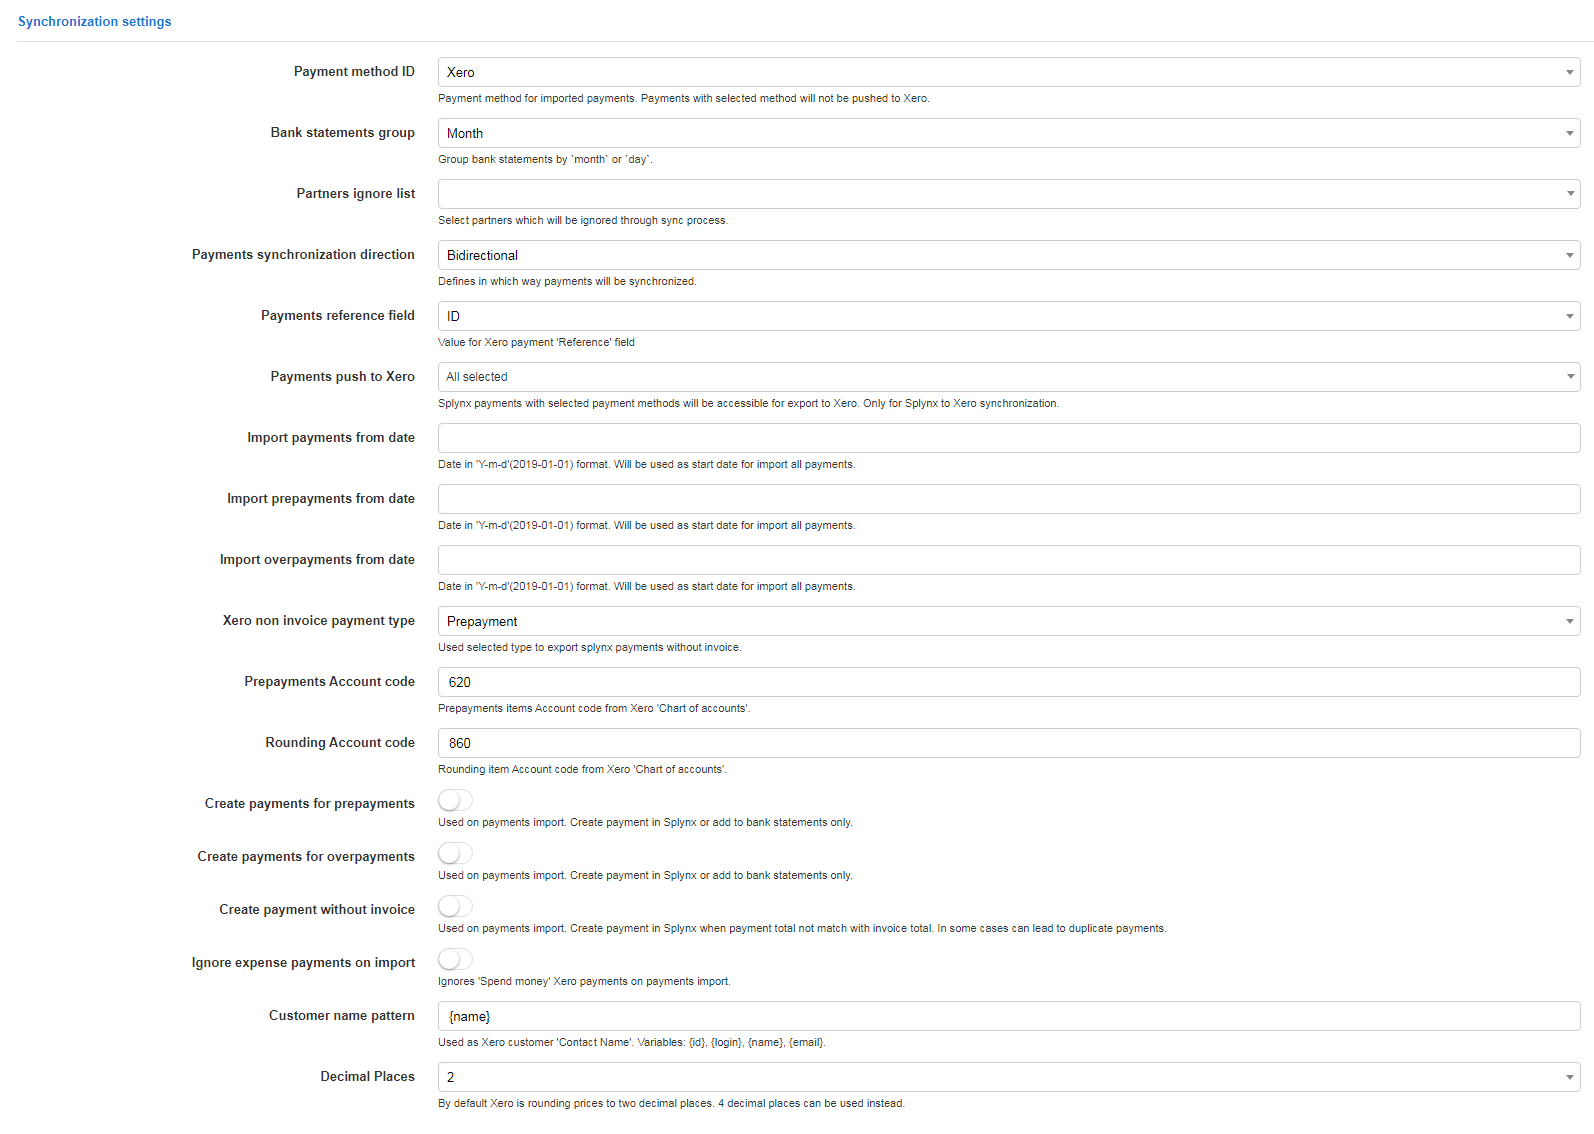
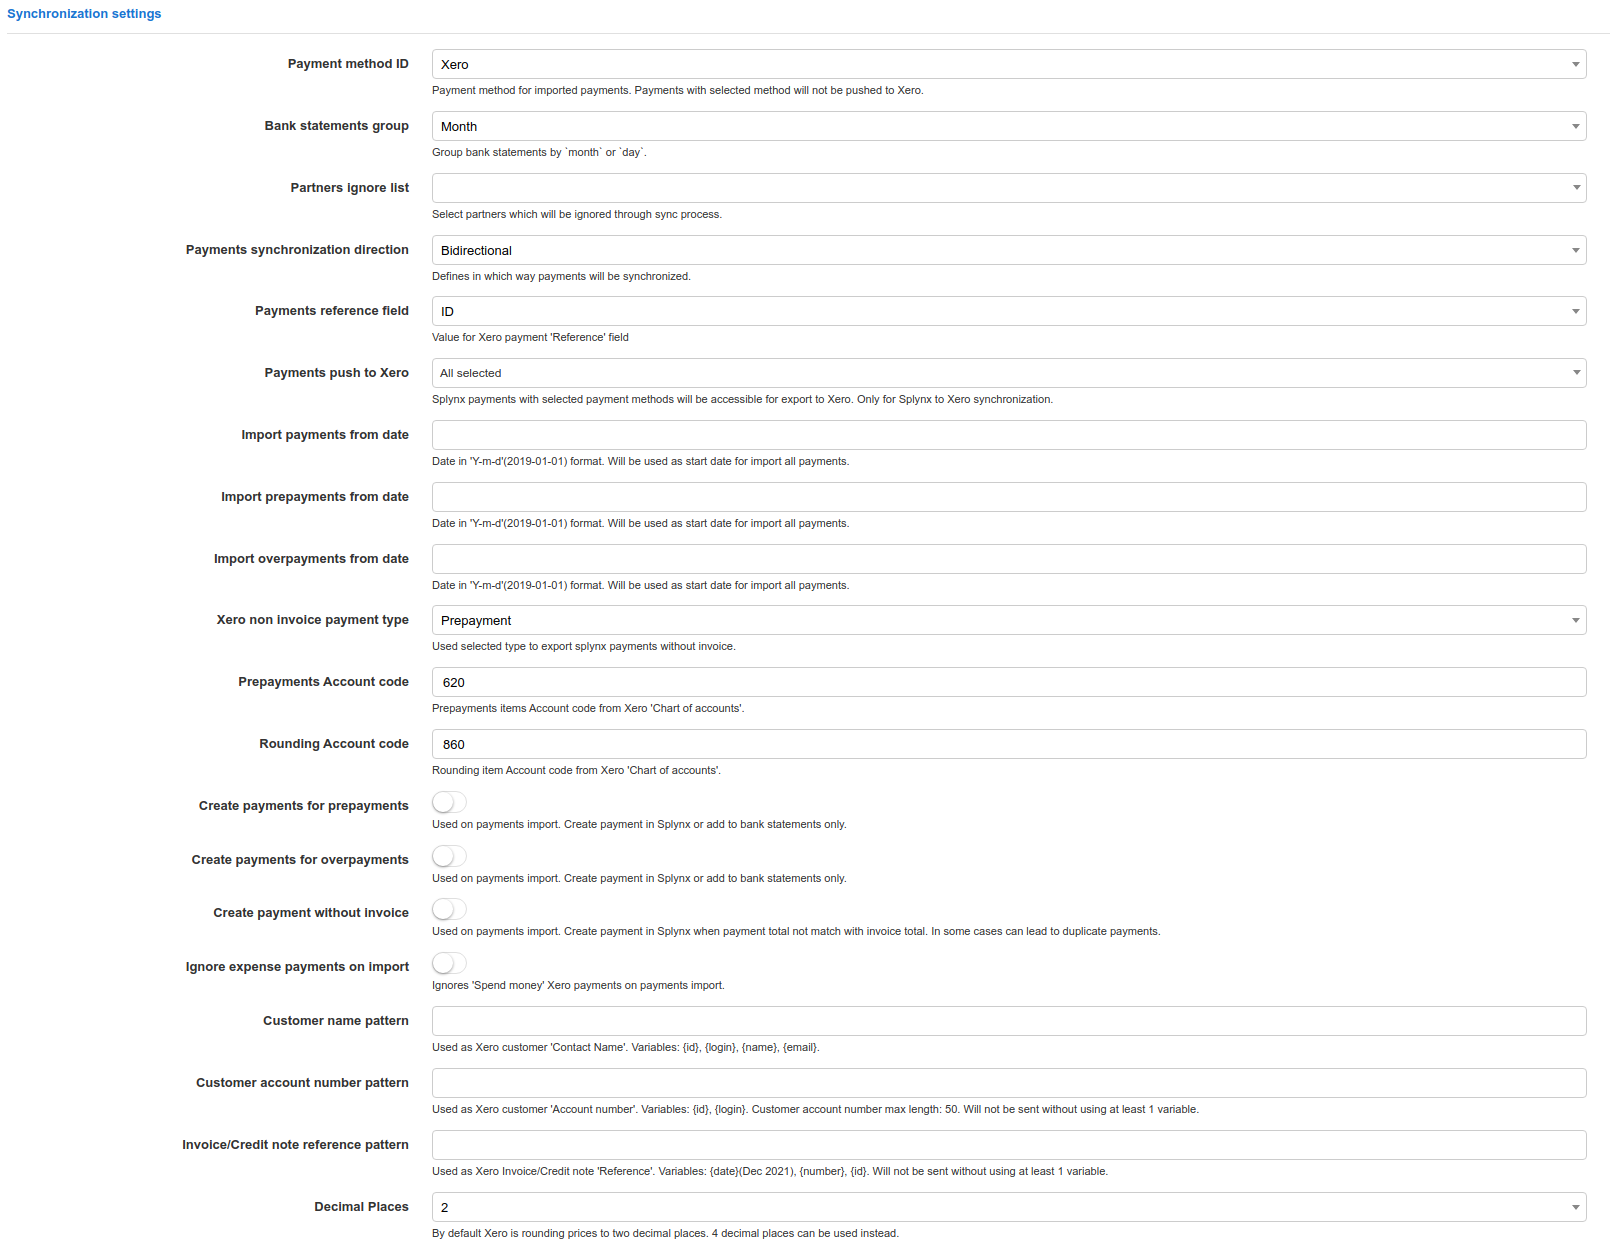
added info from SAXERO-135 - AccountNumber pattern + Reference for invoices

Changed region(s): [[0.123, 0.0309, 0.7378, 1.0], [0.0, 0.0, 0.123, 0.0309], [0.9529, 0.1852, 0.9837, 0.216]]

diff --git a/files/en/addons_modules/xero/xero.md b/files/en/addons_modules/xero/xero.md
@@ -62,6 +62,7 @@ The **Splynx domain** must be the same as the **API domain URL** but without las
 - **Xero non invoice payment type** - used to choose the type (`Prepayment` or `Overpayment`) of Splynx payment to export without invoice;
 
 
+
 <details>
 <summary><b>Example</b></summary>
 <p markdown="1">
@@ -76,6 +77,7 @@ It would be much easier if all R500 could simply be allocated to the client's ac
 </details>
 
 
+
 - **Prepayments Account code** - a unique code (limited to 10 characters) of prepayments items (the expenditures that have been paid for in advance) in Xero account (`Accounting menu → Advanced → Chart of Accounts`);
 
 - **Rounding Account code** - a unique code (limited to 10 characters) of rounding item (an adjustment entry to allow for rounding) in Xero account (`Accounting menu → Advanced → Chart of Accounts`);
@@ -88,7 +90,34 @@ It would be much easier if all R500 could simply be allocated to the client's ac
 
 - **Ignore expense payments on import** - a toggle allows to enable/disable ignoring 'Spend money' (a payment that doesn't relate to a bill, expense claim, or refund) in Xero payments during payments import. If option is enabled, 'Spend money' payments will not be added to bank statements;
 
-- **Customer name pattern** - used as Xero customer 'Contact Name'. The following variables can be used: `{id}`, `{login}`, `{name}`, `{email}`.
+- **Customer name pattern** - used to set the format of the customer name during the sync to Xero. The value will be visible in **Contact Name** field of customer contact information on Xero side. The following variables can be used in the field: `{id}`, `{login}`, `{name}`, `{email}`;
+
+- **Customer account number pattern** - set the format of customer **Account number** field during the sync to Xero. The max filed length is 50 symbols. The following variables can be used: `{id}`,`{login}`;
+
+- **Invoice/Credit note reference pattern** - set the format of invoice / credit note (`credit note` - *the Xero term, it's an invoice with negative total price in Splynx v3.1*) **Reference** field during the sync to Xero. The max field length is 255 symbols. The following variables can be used: `{id}`, `{number}`, `{date}` (e.g. Dec 2021);
+
+
+
+<details>
+<summary><b>Example of the variables usage</b></summary>
+<p markdown="1">
+
+
+![example](example1.png)
+
+![example](example2.png)
+
+![example](example3.png)
+
+![example](example4.png)
+
+![example](example5.png)
+
+
+</p>
+</details>
+
+<br>
 
 - **Decimal Places** - by default Xero is rounding prices to `2` decimal places. `4` decimal places can be used instead.
 
